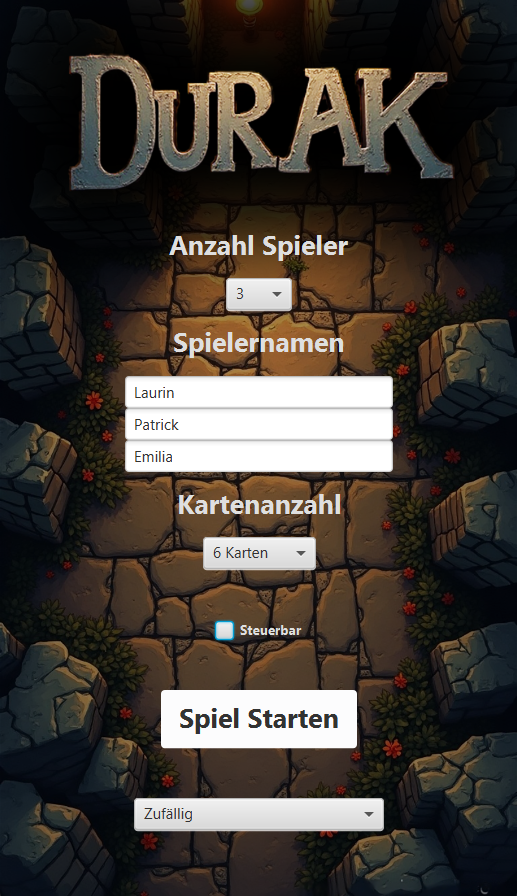
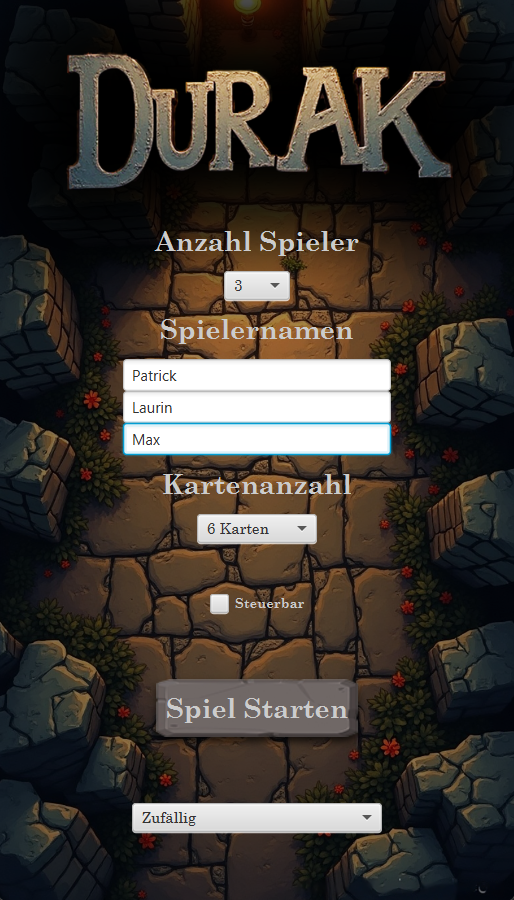
botton design improvment + new ingame screenshots

diff --git a/README.md b/README.md
@@ -64,14 +64,14 @@ This structure ensures a clear separation of concerns, with the `model` handling
 
 ### Text User Interface (TUI)
 
-![TUI Screenshot](src/main/resources/previews/TUI_Ingame1.png)
-![TUI Screenshot](src/main/resources/previews/TUI_Ingame2.png)
+![TUI Screenshot](src/main/resources/previews/tui_ingame1.png)
+![TUI Screenshot](src/main/resources/previews/tui_ingame2.png)
 
 
 ### Graphical User Interface (GUI)
-![GUI Screenshot](src/main/resources/previews/GUI_Startmenu.png)
-![GUI Screenshot](src/main/resources/previews/GUI_Ingame1.png)
-![GUI Screenshot](src/main/resources/previews/GUI_Ingame2.png)
+![GUI Screenshot](src/main/resources/previews/gui_startmenu.png)
+![GUI Screenshot](src/main/resources/previews/gui_ingame1.png)
+![GUI Screenshot](src/main/resources/previews/gui_ingame2.png)
 
 ## How to Run
 